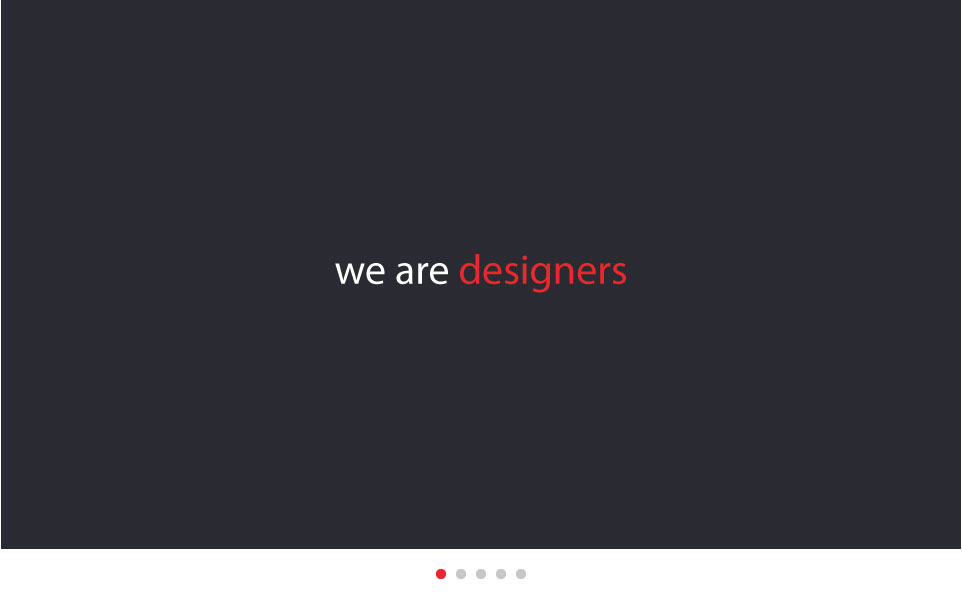
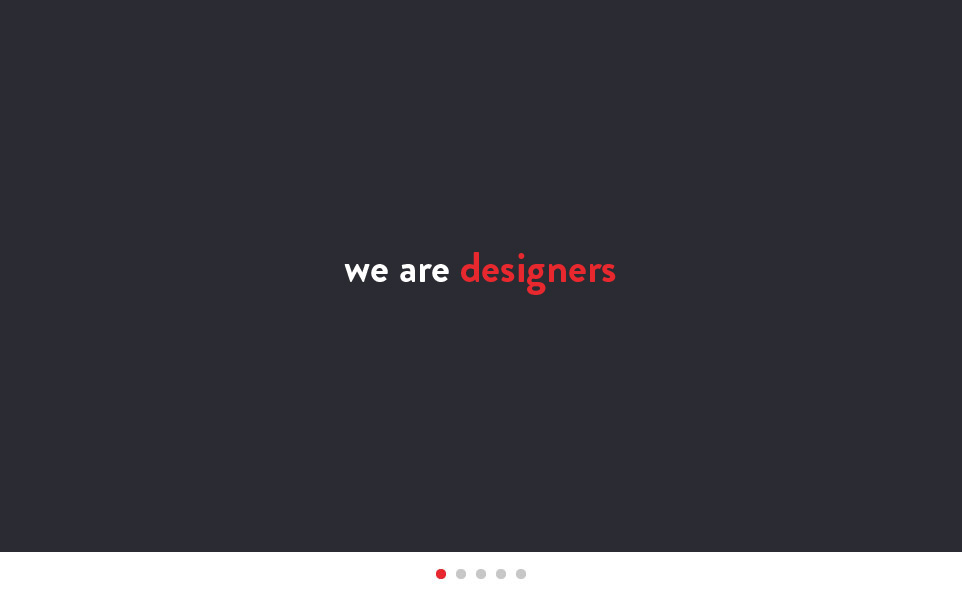
Typekit Font Fix

Changed region(s): [[0.0, 0.0, 1.0, 0.9347], [0.343, 0.4221, 0.6549, 0.5126]]

diff --git a/css/style.css b/css/style.css
@@ -17,11 +17,13 @@ a:hover {
 }
 h1 { font-size: 42px; }
 h2 { font-size: 36px; }
-h3 { font-size: 28px; }
+h3 { font-size: 28px; font-weight: 400; }
 h4 {
     font-size: 16px;
     letter-spacing: 1px;
     text-transform: uppercase;
+}
+h3, h4 {
     font-family: "brandon-grotesque", sans-serif;
 }
 h1, h2, h3, h4 {
@@ -69,7 +71,8 @@ nav li.hovered a {
 nav a {
     color: #333333;
     font-size: 18px;
-    font-weight: 400;
+    font-weight: bold;
+    font-family: "brandon-grotesque", sans-serif;
 }
 nav li.hovered, nav li.hovered a {
     -webkit-transition: all 0.5s ease;
@@ -90,15 +93,21 @@ nav li.hovered, nav li.hovered a {
 }
 .study h4 {
     color: #A2A3AA;
-    font-weight: 400;
+    font-weight: 500;
     margin-bottom: 5px;
     text-transform: uppercase;
+}
+.study h2 {
+    font-weight: 400;
+    margin-bottom: 5px;
+    font-family: "brandon-grotesque", sans-serif;
 }
 
 /* ~~~~~ Studio ~~~~~ */
 .text.dark {
     color: #FFF;
     background: rgba(0,0,0,.8);
+    font-family: "brandon-grotesque", sans-serif;
 }
 .text .container {
     padding: 80px 70px;
@@ -106,8 +115,12 @@ nav li.hovered, nav li.hovered a {
 .text.dark .container {
     padding: 100px 70px;
 }
+.text.dark h3, .text h3 {
+    margin-bottom: 5px;
+}
 .text.dark h2 {
     font-size: 34px;
+    letter-spacing: .5px;
 } /* Intro */
 
 .services, .team {
@@ -123,9 +136,11 @@ nav li.hovered, nav li.hovered a {
 .services h2 {
     font-weight: 400;
     margin-bottom: 60px;
+    font-family: "brandon-grotesque", sans-serif;
 }
 .services h4, .process h4, .team h4, .contact h4 {
     color: #A2A3AA;
+    font-weight: 400;
     margin-bottom: 5px;
 }
 .services .four.columns {
@@ -152,9 +167,11 @@ nav li.hovered, nav li.hovered a {
 .process .dropcap {
     float: left;
     color: #E8282E;
-    font-size: 50px;
-    padding: 0 10px;
-    line-height: 50px;
+    font-size: 56px;
+    font-weight: 300;
+    line-height: 48px;
+    padding: 0 12px 0 2px;
+    font-family: "brandon-grotesque", sans-serif;
 } /* Process */
 
 .team h3 {
@@ -165,29 +182,32 @@ nav li.hovered, nav li.hovered a {
 }
 .team .item {
     width: 150px;
-    height: 150px;
+    height: 100px;
+    line-height: 1.3;
     margin: 25px 50px;
+    padding-top: 50px;
     position: relative;
     display: inline-block;
 }
-.team .item .title {
-    left: 0;
-    top: 55px;
+.team .name, .team .title {
     opacity: 0;
     width: 100%;
     height: 100%;
     color: #FFFFFF;
-    line-height: 1.2;
-    position: absolute;
+    font-weight: 200;
     text-shadow: 0 0 12px rgba(118, 8, 8, 1);
+}
+.team .name {
+    font-weight: 600;
+    letter-spacing: .5px;
 }
 .team .item:hover {
     -webkit-filter: drop-shadow(0 0 15px rgba(232,40,46,.6));
 }
-.team .item:hover .title {
+.team .item:hover .title, .team .item:hover .name {
     opacity: 1;
 }
-.team .item, .team .item .title {
+.team .item, .team .title, .team .name {
     -webkit-transition: all 0.5s ease;
     -moz-transition: all 0.5s ease;
     -ms-transition: all 0.5s ease;
@@ -222,12 +242,19 @@ nav li.hovered, nav li.hovered a {
     margin: auto;
 }
 .contact form input[type='submit'] {
+    height: 45px;
     margin: auto;
     display: block;
-    padding: 0 50px;
+    padding: 0 60px;
 }
 .contact form textarea {
     height: 100px;
+}
+.contact .six.columns {
+    width: 49%;
+}
+.contact .columns:last-child {
+    margin-left: 2%;
 }
 input[type="email"], input[type="number"], input[type="search"], input[type="text"], input[type="tel"], input[type="url"], input[type="password"], textarea, select {
     height: 46px;
@@ -519,7 +546,7 @@ i {
         transform: skew(20deg);
     }
     .skew img {
-        width: 800px;
+        width: 900px;
         height: 450px;
         margin-left: -100px;
         -webkit-transform: skew(-20deg);
@@ -548,7 +575,7 @@ i {
         transform: skew(-20deg);
     }
     .study.right .skew img {
-        width: 800px;
+        width: 900px;
         height: 450px;
         margin-left: 0;
         margin-right: -100px;
